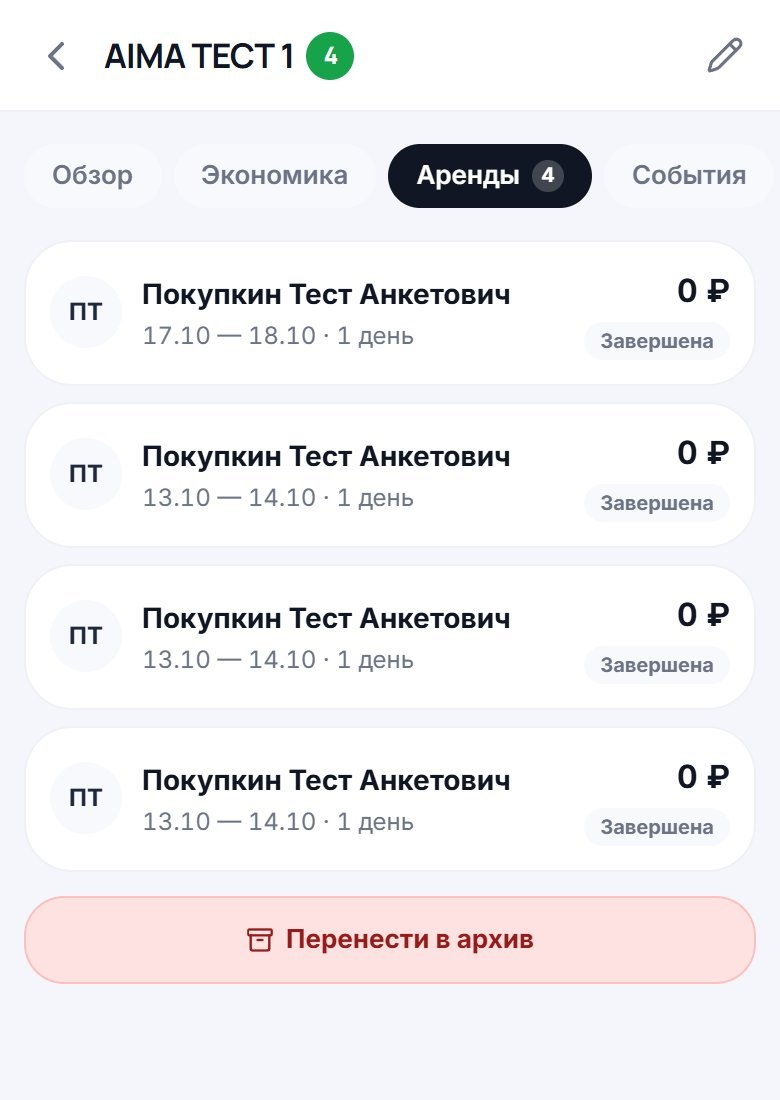
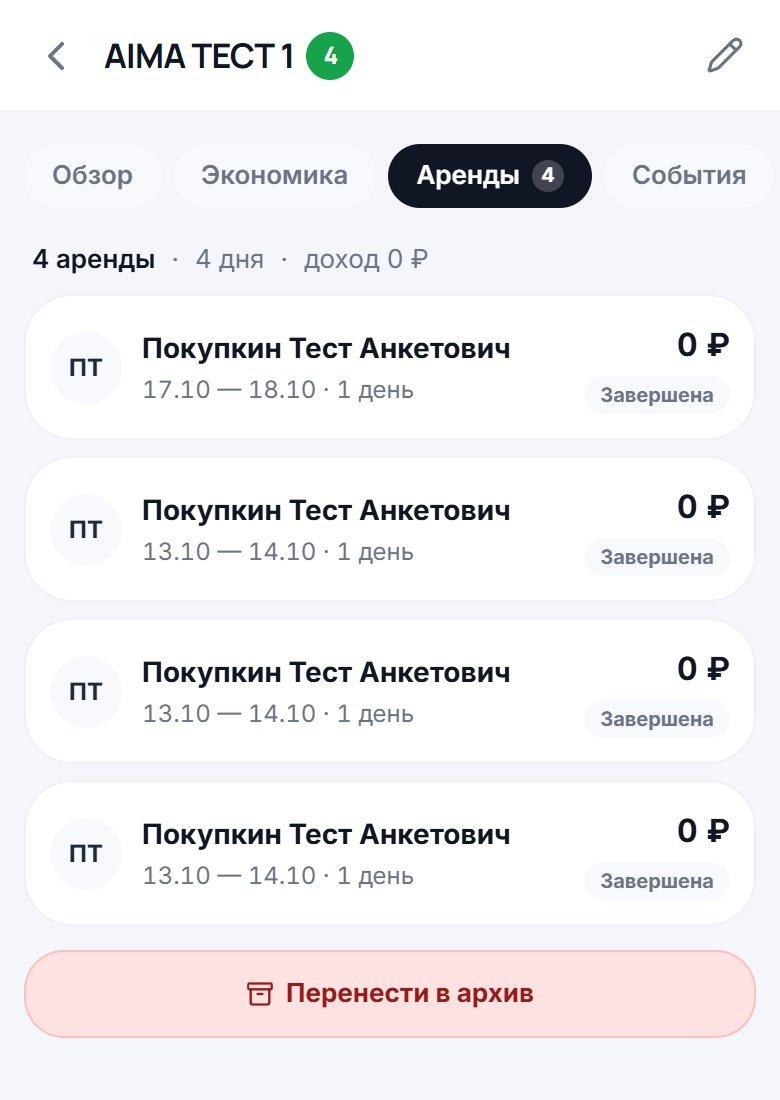
feat(скутер): итог над списком аренд и на телефоне; слайд показа — короче

diff --git a/apps/web/src/mobile/cards/MobileScooterCard.tsx b/apps/web/src/mobile/cards/MobileScooterCard.tsx
@@ -835,8 +835,23 @@ function ScooterHistoryList({
       </div>
     );
   }
+  // Итог — как на компьютере: снятые при замене в доход и дни не идут.
+  const own = sorted.filter((r) => !r.swappedOutAt);
+  const daysTotal = own.reduce((acc, r) => acc + (r.days ?? 0), 0);
+  const sumTotal = own.reduce((acc, r) => acc + (r.sum ?? 0), 0);
   return (
     <div className="flex flex-col gap-2">
+      <div className="flex flex-wrap items-baseline gap-x-2 px-1 text-[13px] text-muted">
+        <span className="font-semibold text-ink">
+          {sorted.length} {sorted.length % 10 === 1 && sorted.length % 100 !== 11 ? "аренда" : sorted.length % 10 >= 2 && sorted.length % 10 <= 4 && (sorted.length % 100 < 10 || sorted.length % 100 >= 20) ? "аренды" : "аренд"}
+        </span>
+        <span>·</span>
+        <span className="tabular-nums">
+          {daysTotal} {daysWord(daysTotal)}
+        </span>
+        <span>·</span>
+        <span className="tabular-nums">доход {fmt(sumTotal)} ₽</span>
+      </div>
       {sorted.map((r) => (
         <ScooterHistoryRow
           key={r.id}

diff --git a/apps/web/src/release/tour.ts b/apps/web/src/release/tour.ts
@@ -1077,7 +1077,6 @@ const RELEASE_2_0_9: ReleaseTourConfig = {
       points: [
         "Сверху итог: сколько аренд, дней и доход",
         "Снятые при замене — с пометкой «Заменён» и в доход не идут",
-        "Строка открывает аренду",
       ],
       audience: "all",
       devices: ["desktop", "phone"],
